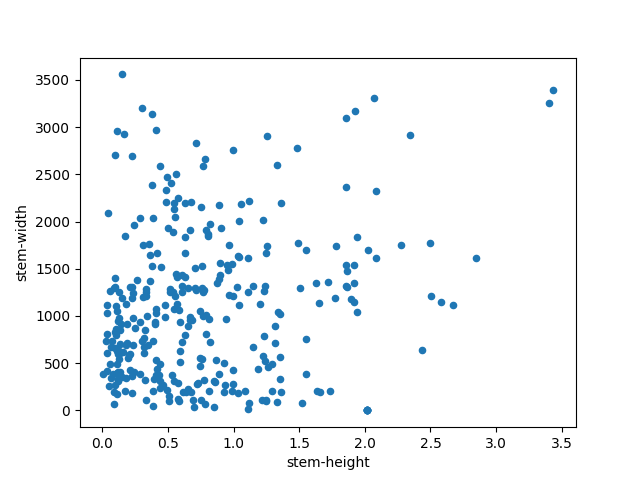
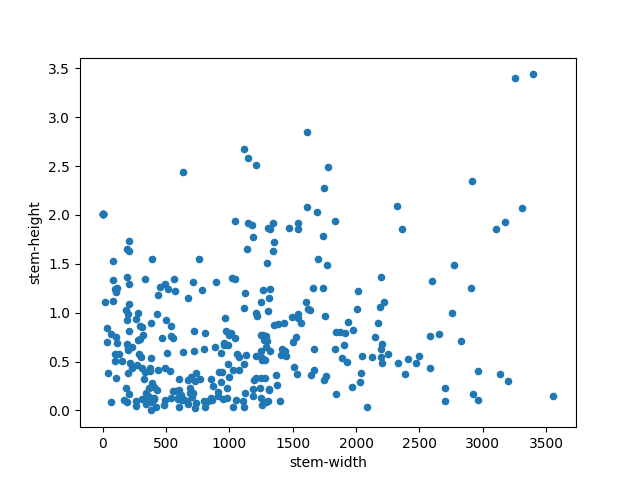
fixed small error with names

diff --git a/src/main_workspace/stats_pdf.py b/src/main_workspace/stats_pdf.py
@@ -10,7 +10,7 @@ def calculate():
     mean = ("mean\n",df_train_x[["stem-height","stem-width"]].mean())
     median= ("median\n",df_train_x[["stem-height","stem-width"]].median())
     std = ("std\n",df_train_x[["stem-height","stem-width"]].std())
-    df_train_x.plot.scatter("stem-height", "stem-width")
+    df_train_x.plot.scatter("stem-width","stem-height")
     plt.savefig('./src/main_workspace/outputs/scatter_plot.png')
     return [mean,median,std]
 
@@ -21,16 +21,16 @@ def print_to_pdf(stats):
 
     pdf_add_stats(stats, pdf, "stem-height")
     pdf.cell(180, 10, txt="", align="C", border=0, ln=True)
-    pdf_add_stats(stats, pdf, "stem-width-height")
+    pdf_add_stats(stats, pdf, "stem-width")
 
     pdf.image("./src/main_workspace/outputs/scatter_plot.png",w=100,type='PNG')
     #save the pdf with name .pdf
     pdf.output("./src/main_workspace/outputs/example_stats.pdf")
 
 def pdf_add_stats(stats, pdf, text):
-    pdf.cell(180, 10, txt="stem-height", align="C", border=1, ln=True)
+    pdf.cell(180, 10, txt=text, align="C", border=1, ln=True)
     for i in range(len(stats)):
-        stat_print = stats[i][0] + " " +str(stats[i][1]["stem-height"])
+        stat_print = stats[i][0] + " " +str(stats[i][1][text])
         pdf.cell(180, 10, txt=stat_print, align="C", border=1, ln=True)
 
 if __name__ == '__main__':
